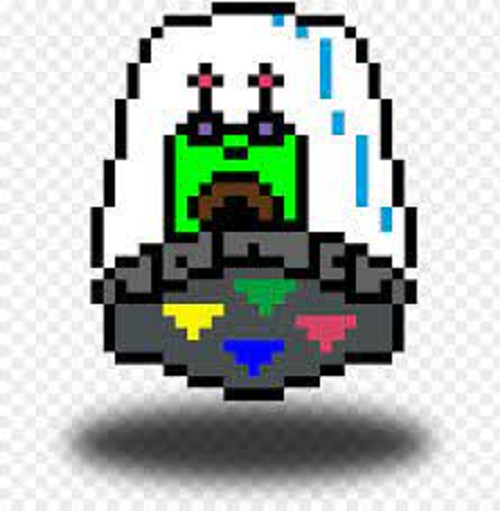
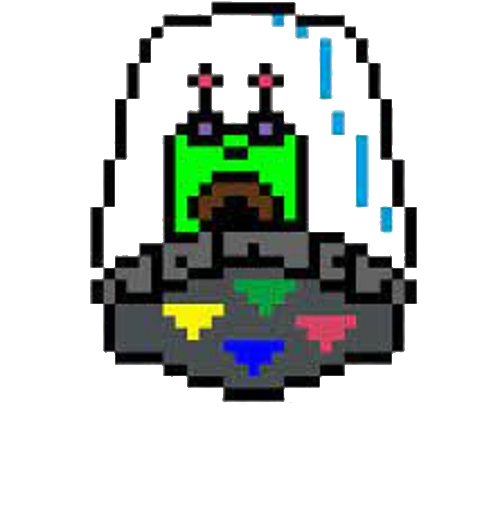
enemy better

diff --git a/threeD.py b/threeD.py
@@ -5,7 +5,7 @@ from math import pi, sin, cos
 from time import time
 import sys
 from funcForMap import translateMap, create_map
-from loadImage import load_hand_image
+from loadImage import load_hand_image, load_enemy_image
 from AI import Enemy
 
 
@@ -64,7 +64,7 @@ class Game:
         self.hole_points.extend(self.plane_map)
 
         self.stuck_polygons = []
-        im = load_hand_image('data/images/alien_test.png')
+        im = load_enemy_image('data/images/alien_test.png')
         print('0')
         self.test_monster = Enemy((5, 8), im, create_map(self.tecmap))
         print('1')

diff --git a/loadImage.py b/loadImage.py
@@ -14,4 +14,4 @@ def load_enemy_image(name, colorkey=None):
     fullname = os.path.join('', name)
     image = pygame.image.load(fullname)
     image = image.convert_alpha()
-    return image, image.get_rect().size
+    return image
